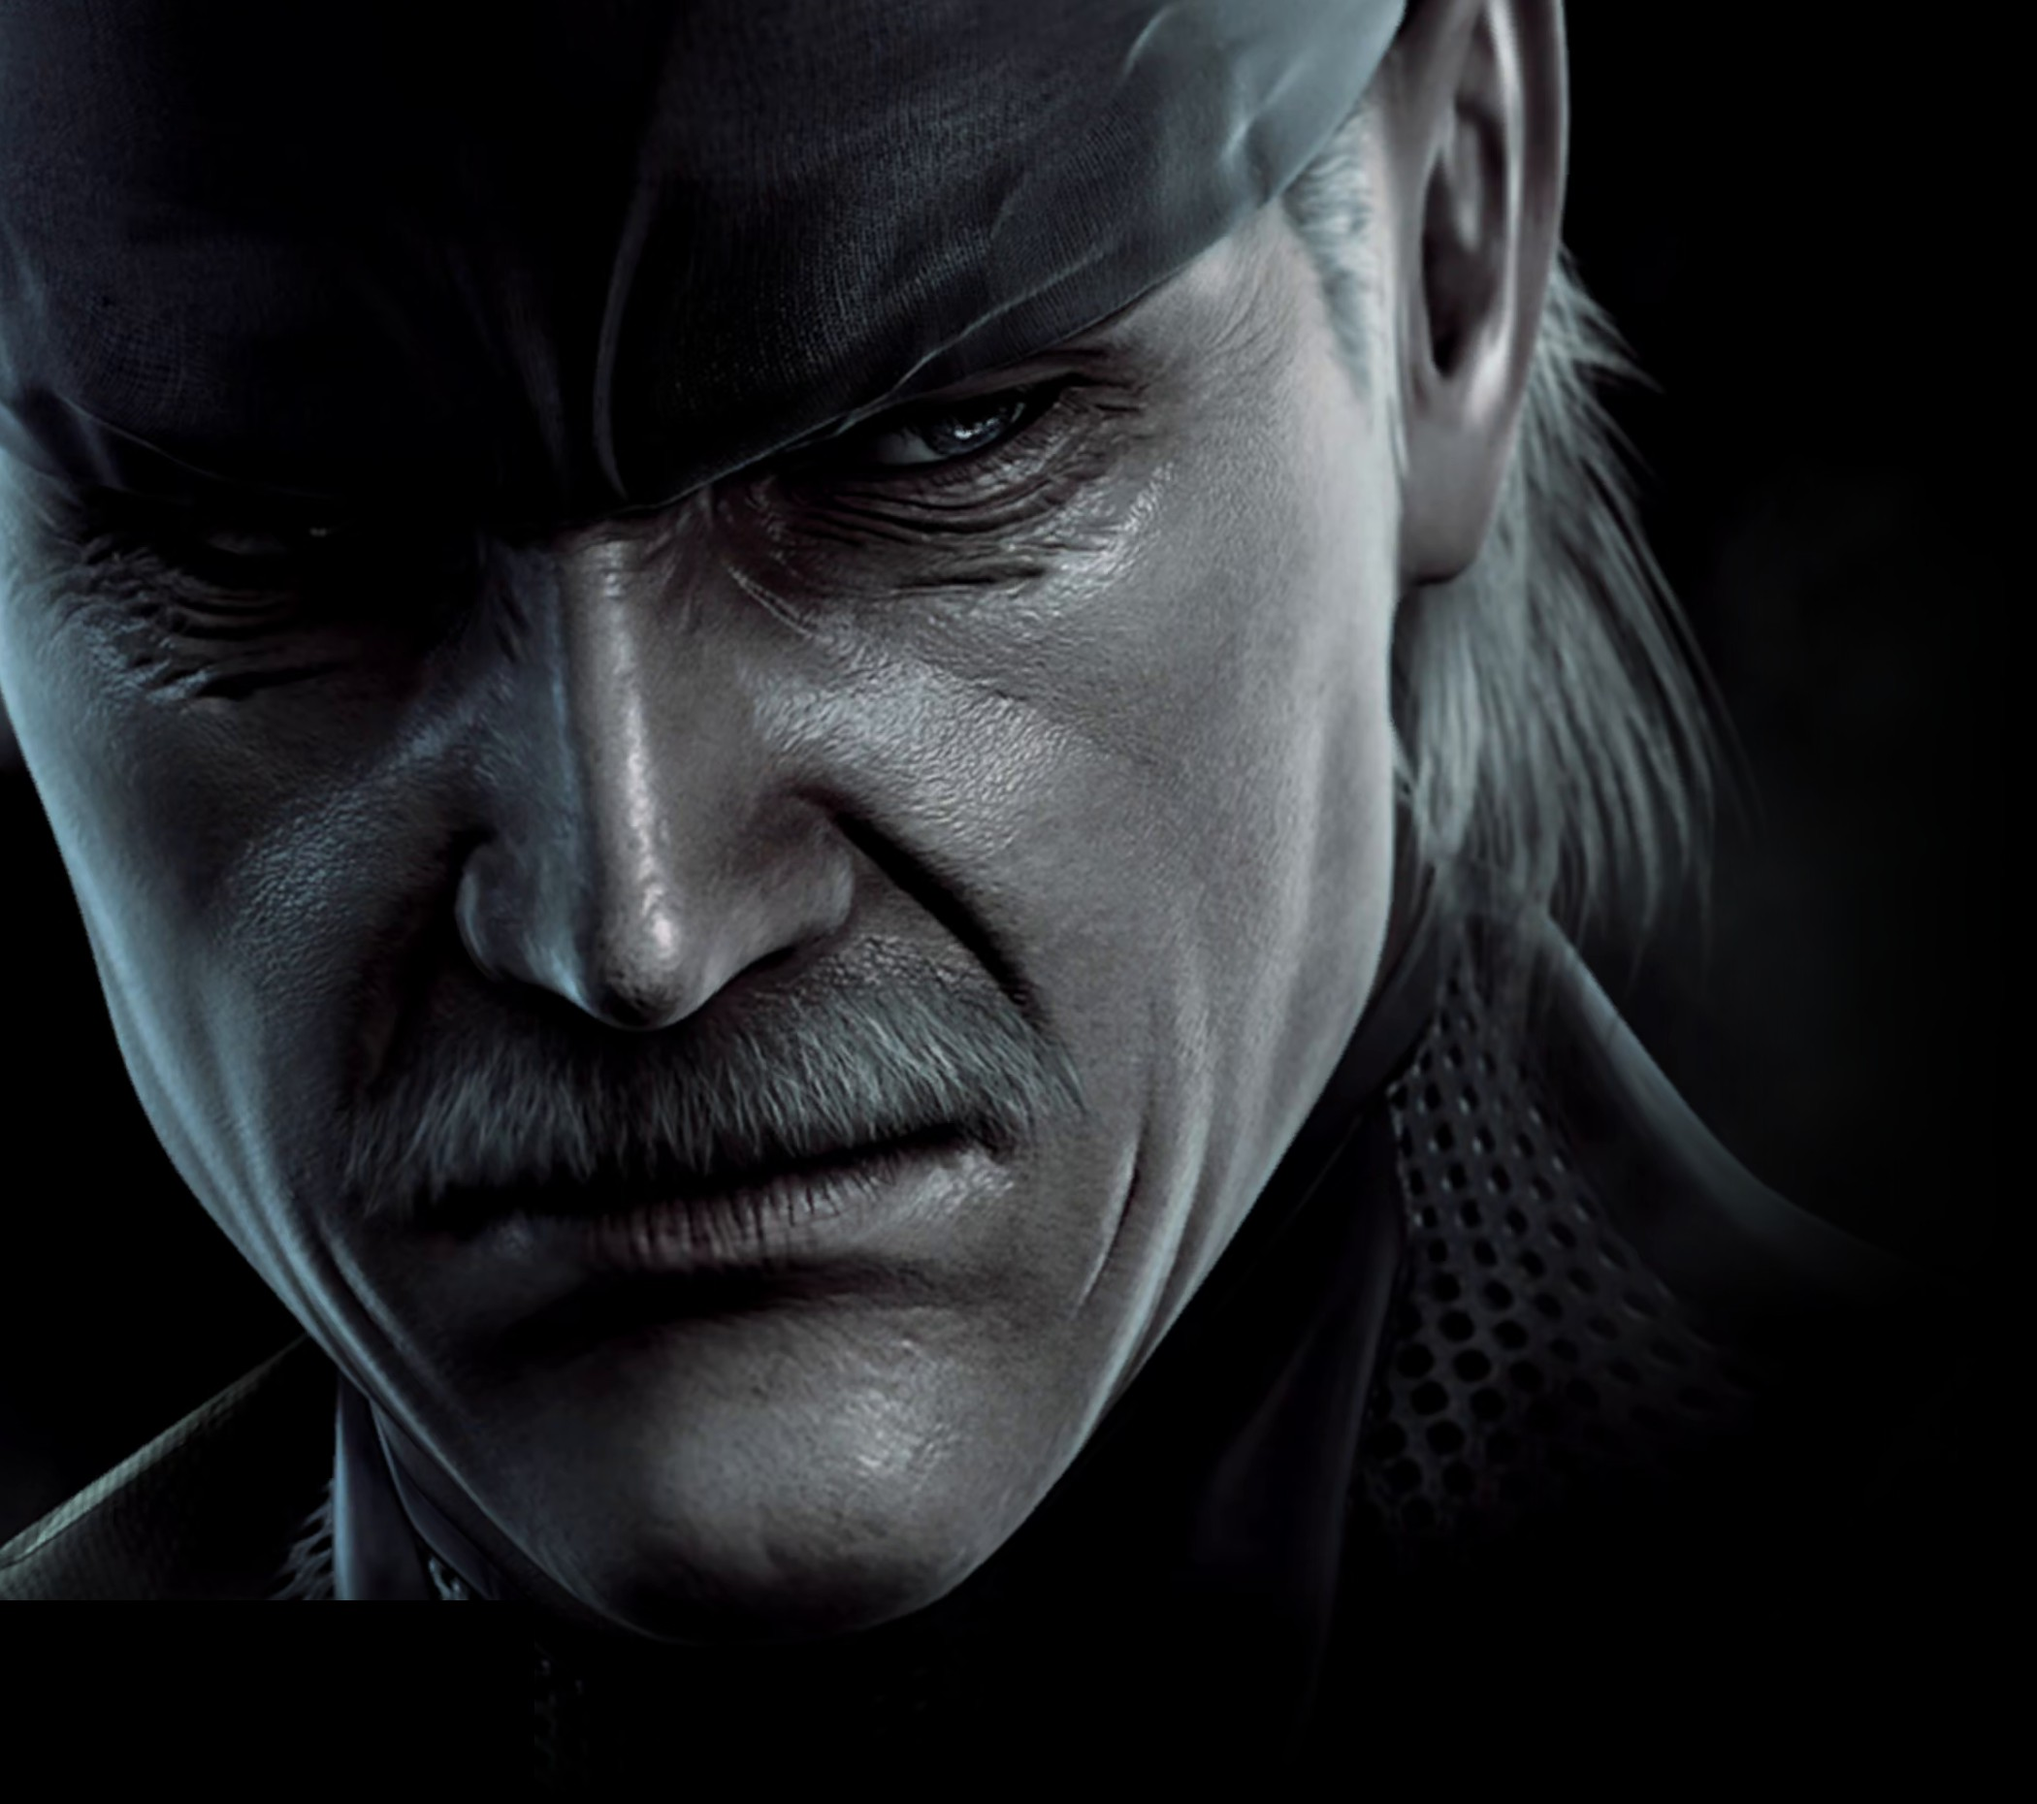
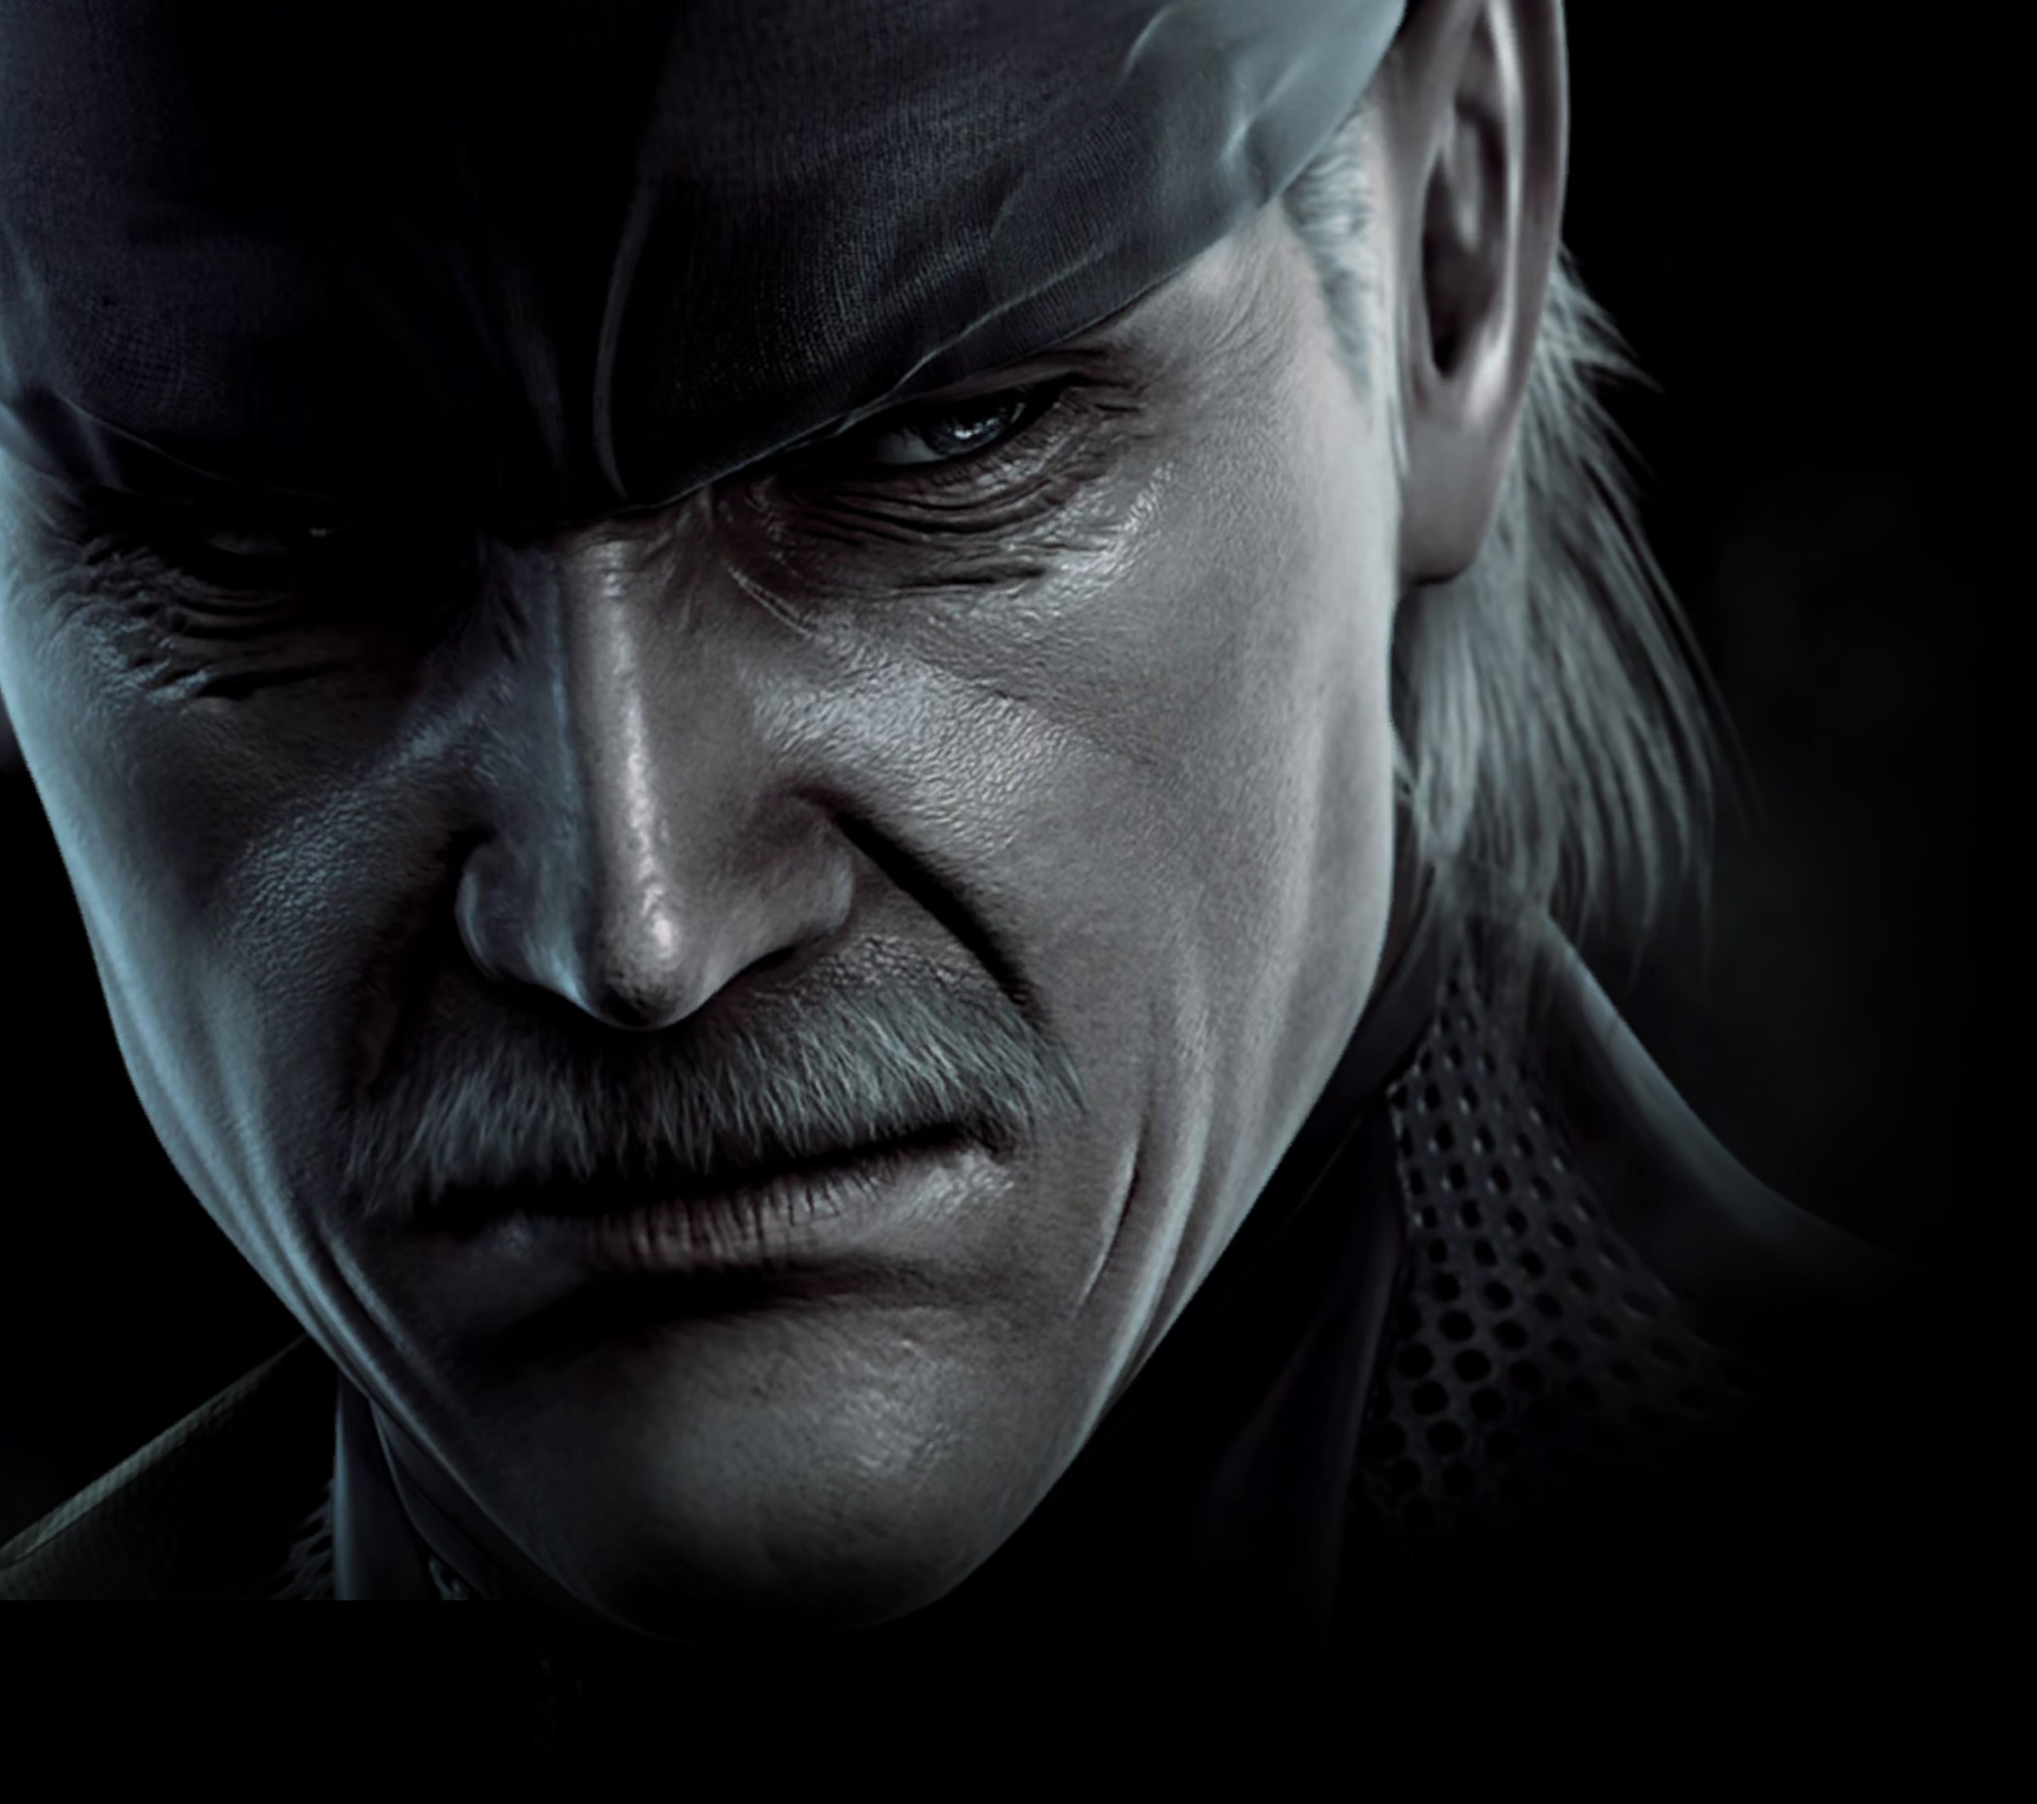
Snake is back on the window's edge, and his foot fades slowly
A gap from the left read as the picture's own edge, so the inset is zero again.
The foot was two steep fades stacked - the file's over its last 14% and the
band's over its last 40% - and it rolled off on a line. The file's fade now runs
from 70% down with a smoothstep, and the band's mask starts easing earlier through
a middle stop instead of dropping straight from solid.

Claude-Session: https://claude.ai/code/session_01MkvDeFSiNhtSb1oaBdQ9XZ

diff --git a/launcher/src/Ui/Art.cs b/launcher/src/Ui/Art.cs
@@ -145,7 +145,7 @@ namespace Mgs4Launcher
         // how far up it is lifted (the top of the bandana leaves, the mouth arrives), and the gap from the left.
         const double ArtScale = 1.12;
         const double ArtLift = 0.20;
-        const double ArtInset = 0.14;
+        const double ArtInset = 0;      // hard against the window's edge: any gap reads as the picture's own edge
 
         public static void ApplyHeader(Window win, Image logoArt, TextBlock titleText, Panel navTabs,
                                        System.Windows.Shapes.Rectangle heroArt, Border headerBar, Grid artBand)
@@ -222,8 +222,10 @@ namespace Mgs4Launcher
         static Brush Fade(double solidTo)
         {
             var g = new LinearGradientBrush { StartPoint = new Point(0, 0), EndPoint = new Point(0, 1) };
+            // Three stops rather than two on the way out, so the roll-off eases in instead of starting on a line.
             g.GradientStops.Add(new GradientStop(Colors.White, 0));
-            g.GradientStops.Add(new GradientStop(Colors.White, solidTo * 0.88));
+            g.GradientStops.Add(new GradientStop(Colors.White, solidTo * 0.72));
+            g.GradientStops.Add(new GradientStop(Color.FromArgb(200, 255, 255, 255), solidTo * 0.72 + (1 - solidTo * 0.72) * 0.35));
             g.GradientStops.Add(new GradientStop(Color.FromArgb(0, 255, 255, 255), 1));
             g.Freeze();
             return g;

diff --git a/tools/make_banner.py b/tools/make_banner.py
@@ -28,7 +28,7 @@ SCENE = "@collection"
 CROP = (650, 300, 2750, 2160)        # left, top, right, bottom in the 3840x2160 frame: bandana down, cheek to hair
 COPYRIGHT = (0, 1950, 1200, 2160)    # the copyright line and the version, bottom-left, on black
 FADE_FROM = 0.78                     # the right-hand edge goes to black from here, as a fraction of the crop's width
-FADE_BOTTOM = 0.86                   # and the foot from here, as a fraction of its height
+FADE_BOTTOM = 0.70                   # and the foot from here, as a fraction of its height - long, under the band's own
 OUT = os.path.join(HERE, "art", "banner.jpg")
 
 
@@ -43,7 +43,8 @@ def fade_edges(im, right_from, bottom_from):
     y0 = int(h * bottom_from)
     for y in range(y0, h):
         t = (y - y0) / float(h - y0)
-        row = mask.crop((0, y, w, y + 1)).point(lambda v, k=(1 - t) ** 1.5: int(v * k))
+        k = 1 - t * t * (3 - 2 * t)                          # smoothstep: no corner where the fade begins
+        row = mask.crop((0, y, w, y + 1)).point(lambda v, k=k: int(v * k))
         mask.paste(row, (0, y))
     return Image.composite(im, Image.new("RGB", (w, h), (0, 0, 0)), mask)
 
